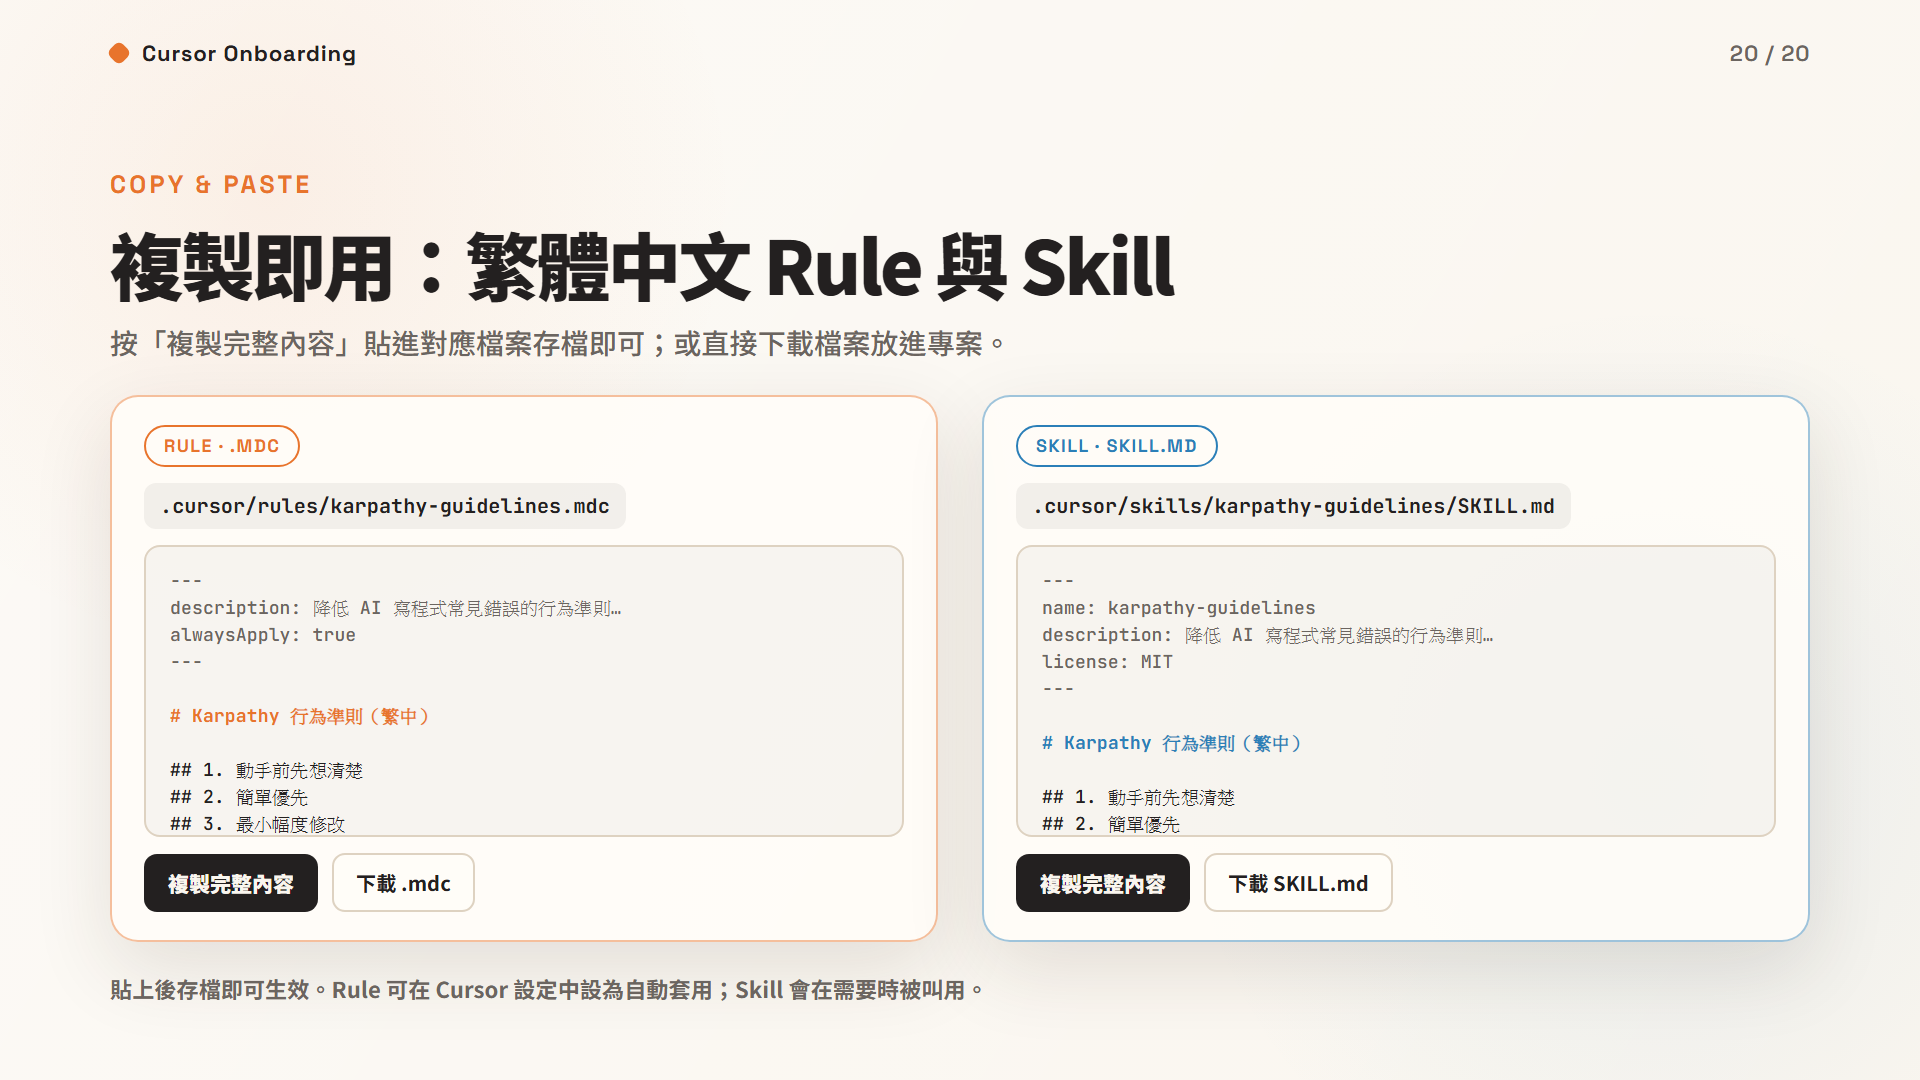
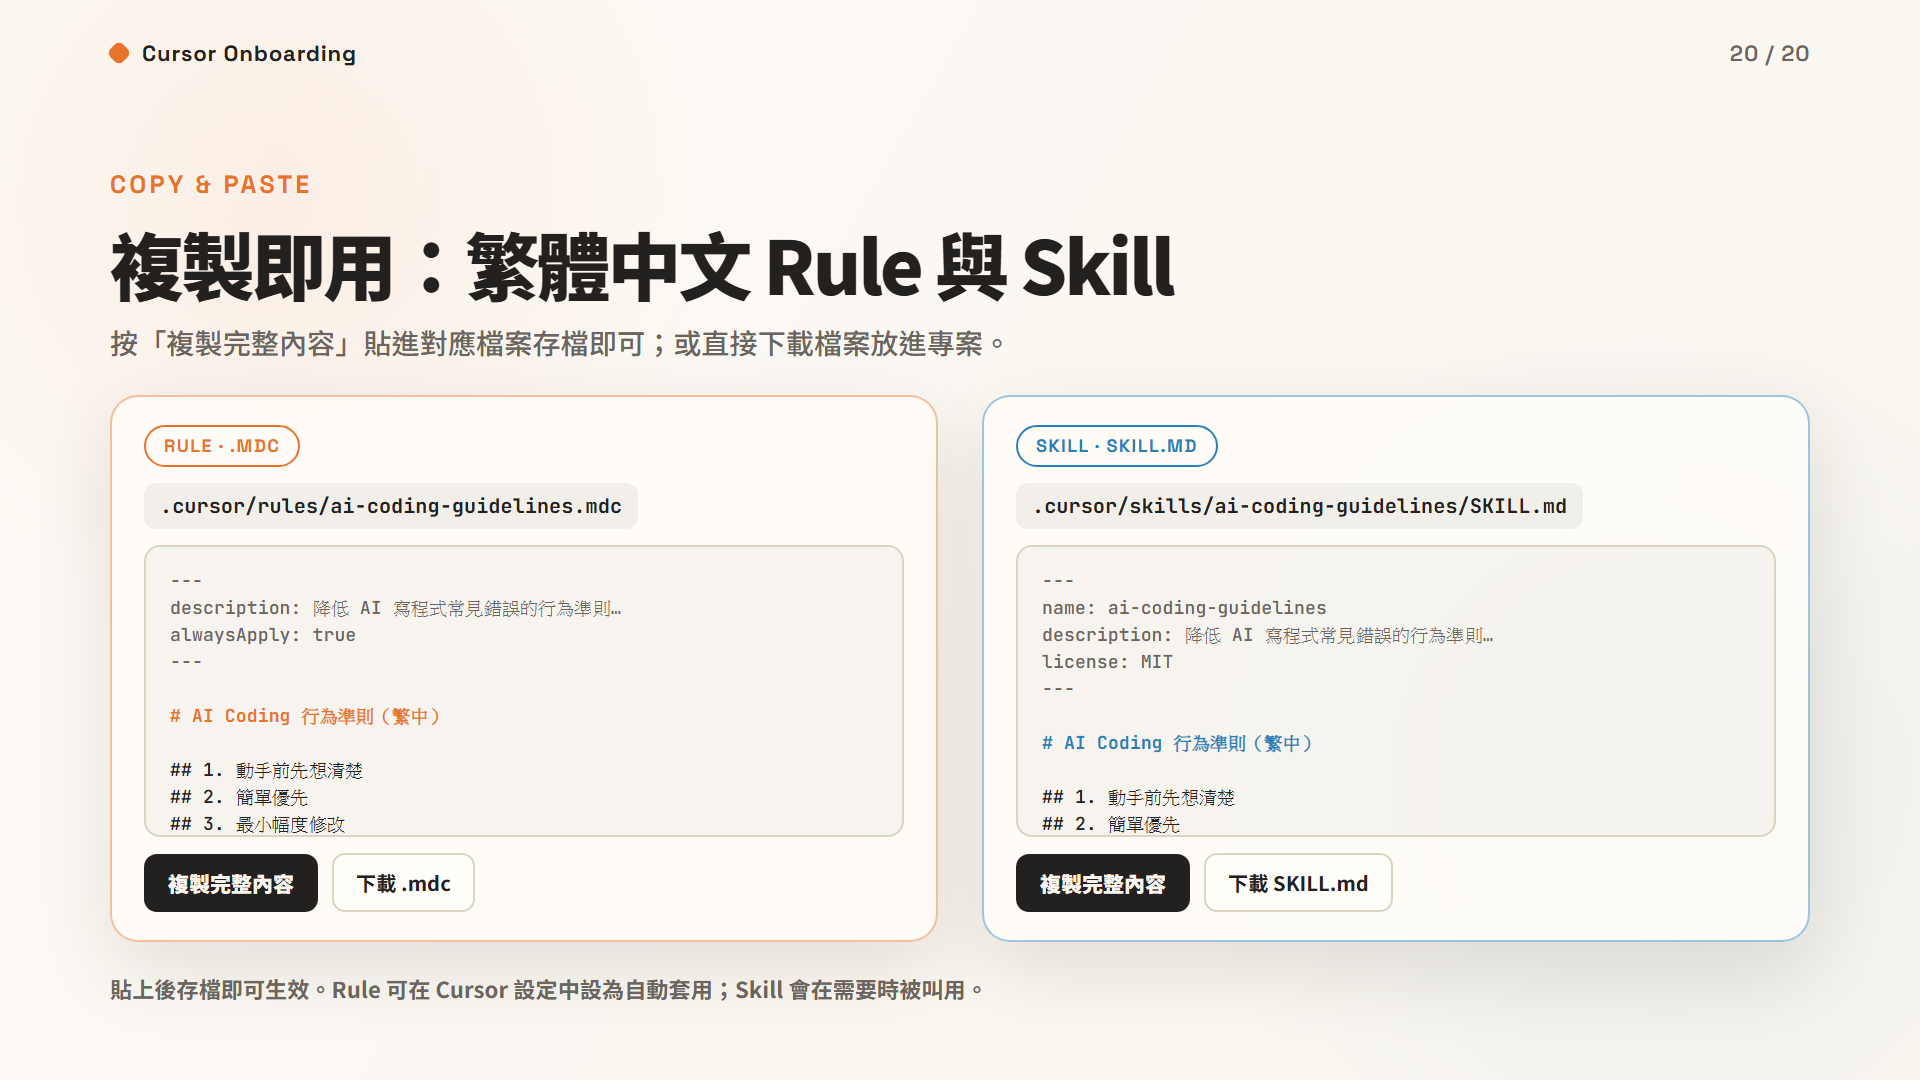
Deploying to gh-pages from @ The-Pocket-Company/cursor-onboarding-deck@0ce49decfef788af552e34c16da852b024295800 🚀

diff --git a/slides/20-copy-paste.html b/slides/20-copy-paste.html
@@ -132,13 +132,13 @@
     <section class="copy-grid">
       <div class="node copy-card rule">
         <span class="tag" style="color: var(--cursor);">rule · .mdc</span>
-        <span class="cc-path">.cursor/rules/karpathy-guidelines.mdc</span>
+        <span class="cc-path">.cursor/rules/ai-coding-guidelines.mdc</span>
 <pre class="preview"><span class="pv-fm">---
 description: 降低 AI 寫程式常見錯誤的行為準則…
 alwaysApply: true
 ---</span>
 
-<span class="pv-rule"># Karpathy 行為準則（繁中）</span>
+<span class="pv-rule"># AI Coding 行為準則（繁中）</span>
 
 ## 1. 動手前先想清楚
 ## 2. 簡單優先
@@ -146,21 +146,21 @@ alwaysApply: true
 ## 4. 目標導向執行
 <span class="pv-dim">…（完整內容請按複製）</span></pre>
         <div class="cc-actions">
-          <button class="copy-btn" data-label="複製完整內容" onclick="copyDoc('../assets/karpathy-guidelines.mdc', this)">複製完整內容</button>
-          <a class="dl-link" href="../assets/karpathy-guidelines.mdc" download="karpathy-guidelines.mdc">下載 .mdc</a>
+          <button class="copy-btn" data-label="複製完整內容" onclick="copyDoc('../assets/ai-coding-guidelines.mdc', this)">複製完整內容</button>
+          <a class="dl-link" href="../assets/ai-coding-guidelines.mdc" download="ai-coding-guidelines.mdc">下載 .mdc</a>
         </div>
       </div>
 
       <div class="node copy-card skill">
         <span class="tag" style="color: var(--cloud);">skill · SKILL.md</span>
-        <span class="cc-path">.cursor/skills/karpathy-guidelines/SKILL.md</span>
+        <span class="cc-path">.cursor/skills/ai-coding-guidelines/SKILL.md</span>
 <pre class="preview"><span class="pv-fm">---
-name: karpathy-guidelines
+name: ai-coding-guidelines
 description: 降低 AI 寫程式常見錯誤的行為準則…
 license: MIT
 ---</span>
 
-<span class="pv-skill"># Karpathy 行為準則（繁中）</span>
+<span class="pv-skill"># AI Coding 行為準則（繁中）</span>
 
 ## 1. 動手前先想清楚
 ## 2. 簡單優先
@@ -168,8 +168,8 @@ license: MIT
 ## 4. 目標導向執行
 <span class="pv-dim">…（完整內容請按複製）</span></pre>
         <div class="cc-actions">
-          <button class="copy-btn" data-label="複製完整內容" onclick="copyDoc('../assets/karpathy-guidelines-skill.md', this)">複製完整內容</button>
-          <a class="dl-link" href="../assets/karpathy-guidelines-skill.md" download="SKILL.md">下載 SKILL.md</a>
+          <button class="copy-btn" data-label="複製完整內容" onclick="copyDoc('../assets/ai-coding-guidelines-skill.md', this)">複製完整內容</button>
+          <a class="dl-link" href="../assets/ai-coding-guidelines-skill.md" download="SKILL.md">下載 SKILL.md</a>
         </div>
       </div>
     </section>

diff --git a/slides/19-rules-skills.html b/slides/19-rules-skills.html
@@ -177,9 +177,9 @@
 <pre class="tree"><span class="t-dim">你的專案/</span>
 └─ <span class="t-dir">.cursor/</span>
    ├─ <span class="t-dir">rules/</span>
-   │  └─ karpathy-guidelines.mdc   <span class="t-rule">← Rule</span>
+   │  └─ ai-coding-guidelines.mdc   <span class="t-rule">← Rule</span>
    └─ <span class="t-dir">skills/</span>
-      └─ <span class="t-dir">karpathy-guidelines/</span>
+      └─ <span class="t-dir">ai-coding-guidelines/</span>
          └─ SKILL.md   <span class="t-skill">← Skill</span></pre>
         <div class="tree-steps">
           <p class="tstep"><span class="n">1</span><span>在專案根目錄建立 <span class="mono">.cursor</span> 資料夾與上面的子資料夾。</span></p>